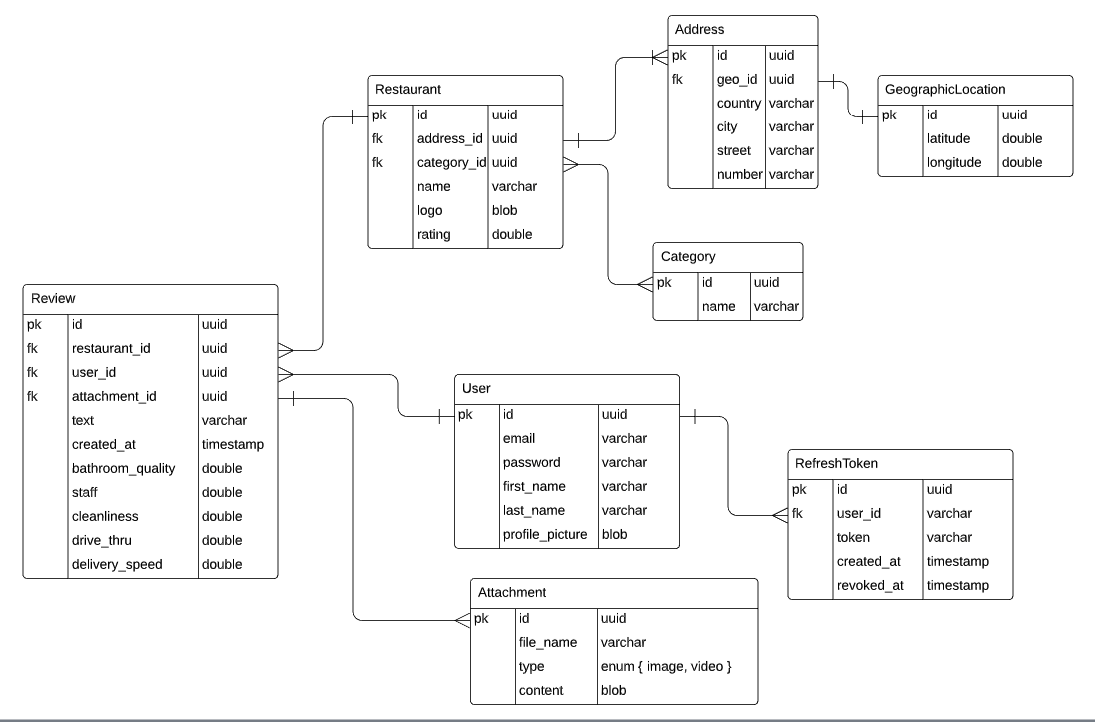
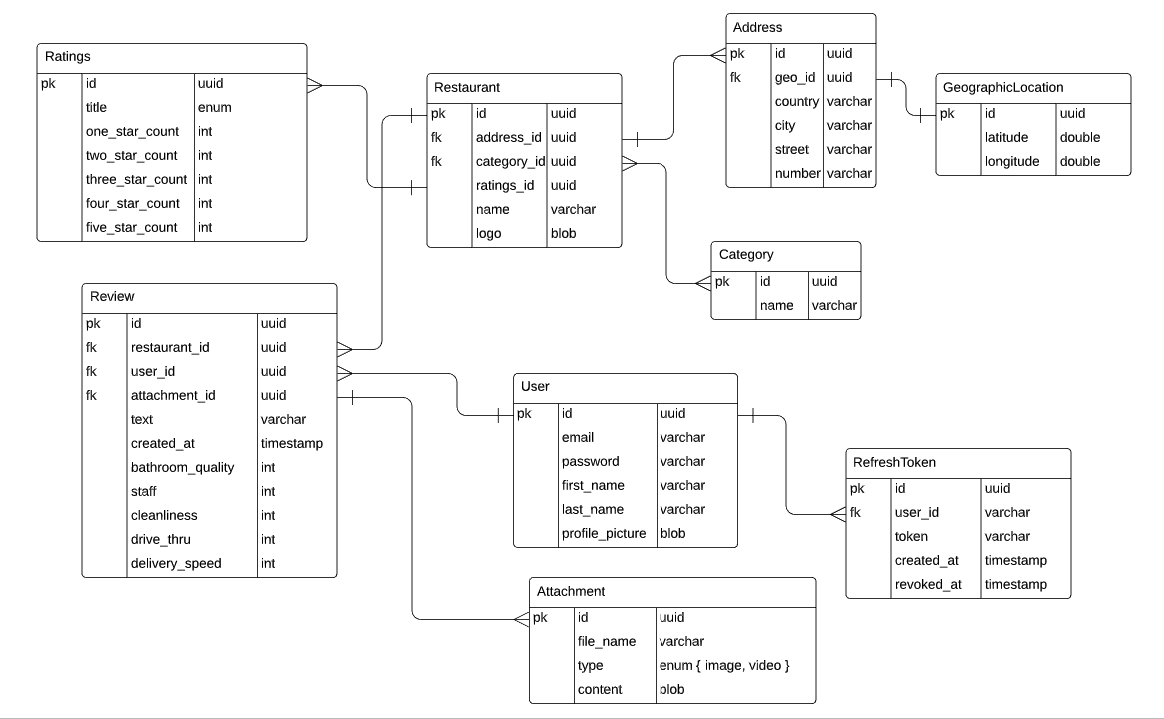
added readme + updated db schema

diff --git a/README.md b/README.md
@@ -1,0 +1,31 @@
+# RESTAURANT REVIEW WEB API
+
+Platforma de review pentru restaurante.
+
+## ToDos
+
+- [ ] Ratings table + entity
+- [ ] Columns constraints
+- [ ] In-memory db H2
+- [ ] MySql connection
+- [ ] Dev and prod spring profiles
+- [ ] Repositories
+- [ ] Services
+- [ ] Logging
+- [ ] Aspect
+- [ ] Exception handling
+- [ ] Pagination for restaurants and reviews
+- [ ] Unit Tests
+- [ ] Controllers
+- [ ] Security (roles: admin, restaurant agent and user) JWT
+- [ ] Routing + secured routes
+
+## Echipa de proiect
+
+Ene Mihai-Lucian, Radu Razvan Marian
+
+## MySql
+
+```docker
+docker run --name mysql -e MYSQL_ROOT_PASSWORD=root -p 3306:3306 -d mysql:latest
+```
